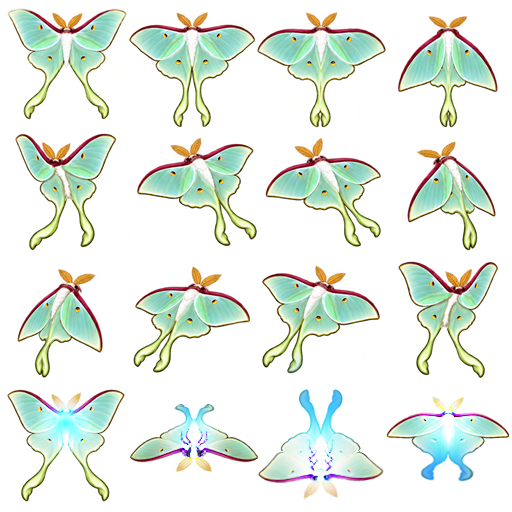
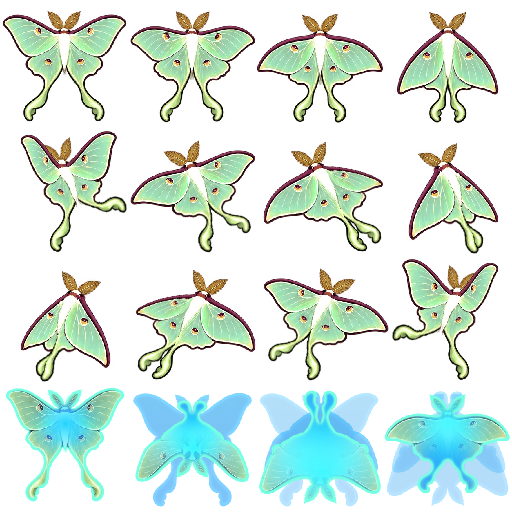
mothテクスチャ更新

diff --git a/src/render.js b/src/render.js
@@ -1,7 +1,7 @@
 /* Canvas-only presentation. Animation transforms never affect the hitbox. */
 (function(root){'use strict';const C=root.MVConfig;
 class Renderer{
- constructor(canvas){this.canvas=canvas;this.ctx=canvas.getContext('2d');this.images={};this.loaded=Promise.all(C.moths.map(m=>new Promise(resolve=>{const im=new Image();im.onload=()=>{this.images[m.id+'Atlas']=im;resolve();};im.onerror=()=>resolve();im.src=m.asset+'?v='+C.version;})));this.loaded=Promise.all([this.loaded,new Promise(resolve=>{const im=new Image();im.onload=()=>{this.images.Standard_A=im;resolve();};im.onerror=()=>resolve();im.src='assets/enemies/standard-a-animation.png?v='+C.version;})]);this.loaded=Promise.all([this.loaded,...[['Feeble_A','feeble-a-idle-8.png'],['Feeble_B','feeble-b-idle-8.png'],['Standard_B','standard-b-animation.png'],['Boss_A_idle','boss-a-idle-16.png'],['Boss_A_strong','boss-a-strong-attack-8.png'],['Boss_A_upper','boss-a-upper-right-8.png'],['Boss_A_lower','boss-a-lower-right-8.png'],['Boss_B_idle','boss-b-idle-8.png'],['Tough_A','tough-a-idle-8.png'],['Tough_B','tough-b-idle-8.png'],['Powerful_A','powerful-a-idle-8.png'],['Powerful_B','powerful-b-idle-8.png'],['Boss_C','boss-c-idle-8.png'],['Mild_A','mild-a-idle-8.png'],['Mild_B','mild-b-idle-8.png']].map(([key,file])=>new Promise(resolve=>{const im=new Image();im.onload=()=>{this.images[key]=im;resolve();};im.onerror=()=>resolve();im.src='assets/enemies/'+file+'?v='+C.version;}))]);this.loaded=Promise.all([this.loaded,...['meteor-atlas','rock-small','rock-medium','enemy-feeble-mild','enemy-standard-tough','enemy-powerful'].map(key=>new Promise(resolve=>{const im=new Image();im.onload=()=>{this.images[key]=im;resolve();};im.onerror=()=>resolve();im.src='assets/effects/'+key+'.png?v='+C.version+(C.explosionFrames[key]?'&fx=tarot-rock2':'');}))]);this.celestialBackground=root.MVCelestialBackground(this.ctx);this.loaded=this.loaded.then(()=>this.prepareExplosionFrames());}
+ constructor(canvas){this.canvas=canvas;this.ctx=canvas.getContext('2d');this.images={};this.loaded=Promise.all(C.moths.map(m=>new Promise(resolve=>{const im=new Image();im.onload=()=>{this.images[m.id+'Atlas']=im;resolve();};im.onerror=()=>resolve();im.src=m.asset+'?v='+C.version+(m.id==='oomizuao'?'&art=tarot-clean-v2':m.id==='yamamayu'||m.id==='yonagunisan'?'&art=tarot-v1':'');})));this.loaded=Promise.all([this.loaded,new Promise(resolve=>{const im=new Image();im.onload=()=>{this.images.Standard_A=im;resolve();};im.onerror=()=>resolve();im.src='assets/enemies/standard-a-animation.png?v='+C.version;})]);this.loaded=Promise.all([this.loaded,...[['Feeble_A','feeble-a-idle-8.png'],['Feeble_B','feeble-b-idle-8.png'],['Standard_B','standard-b-animation.png'],['Boss_A_idle','boss-a-idle-16.png'],['Boss_A_strong','boss-a-strong-attack-8.png'],['Boss_A_upper','boss-a-upper-right-8.png'],['Boss_A_lower','boss-a-lower-right-8.png'],['Boss_B_idle','boss-b-idle-8.png'],['Tough_A','tough-a-idle-8.png'],['Tough_B','tough-b-idle-8.png'],['Powerful_A','powerful-a-idle-8.png'],['Powerful_B','powerful-b-idle-8.png'],['Boss_C','boss-c-idle-8.png'],['Mild_A','mild-a-idle-8.png'],['Mild_B','mild-b-idle-8.png']].map(([key,file])=>new Promise(resolve=>{const im=new Image();im.onload=()=>{this.images[key]=im;resolve();};im.onerror=()=>resolve();im.src='assets/enemies/'+file+'?v='+C.version;}))]);this.loaded=Promise.all([this.loaded,...['meteor-atlas','rock-small','rock-medium','enemy-feeble-mild','enemy-standard-tough','enemy-powerful'].map(key=>new Promise(resolve=>{const im=new Image();im.onload=()=>{this.images[key]=im;resolve();};im.onerror=()=>resolve();im.src='assets/effects/'+key+'.png?v='+C.version+(C.explosionFrames[key]?'&fx=tarot-rock2':'');}))]);this.celestialBackground=root.MVCelestialBackground(this.ctx);this.loaded=this.loaded.then(()=>this.prepareExplosionFrames());}
  prepareExplosionFrames(){for(const key of Object.keys(C.explosionFrames)){const im=this.images[key];if(!im)continue;let sizes;if(key.startsWith('rock-'))sizes=[key==='rock-small'?84:108];else{const types=Object.entries(C.enemies).filter(([type])=>key==='enemy-powerful'?type.startsWith('Powerful'):key==='enemy-standard-tough'?/^(Standard|Tough)_/.test(type):/^(Feeble|Mild)_/.test(type));sizes=new Set(types.map(([,e])=>Math.max(120,e.size*1.8)));}for(const size of sizes)for(let f=0;f<8;f++)this.drawEnemyFrame(im,f%4*im.width/4,Math.floor(f/4)*im.height/2,im.width/4,im.height/2,-1000,-1000,size,size);}}
  drawBackdrop(g){this.celestialBackground.draw(g.time,g.stage,g.wave);}
  drawEnemyFrame(im,sx,sy,sw,sh,dx,dy,dw,dh,tint='normal',resolutionStep=1){
